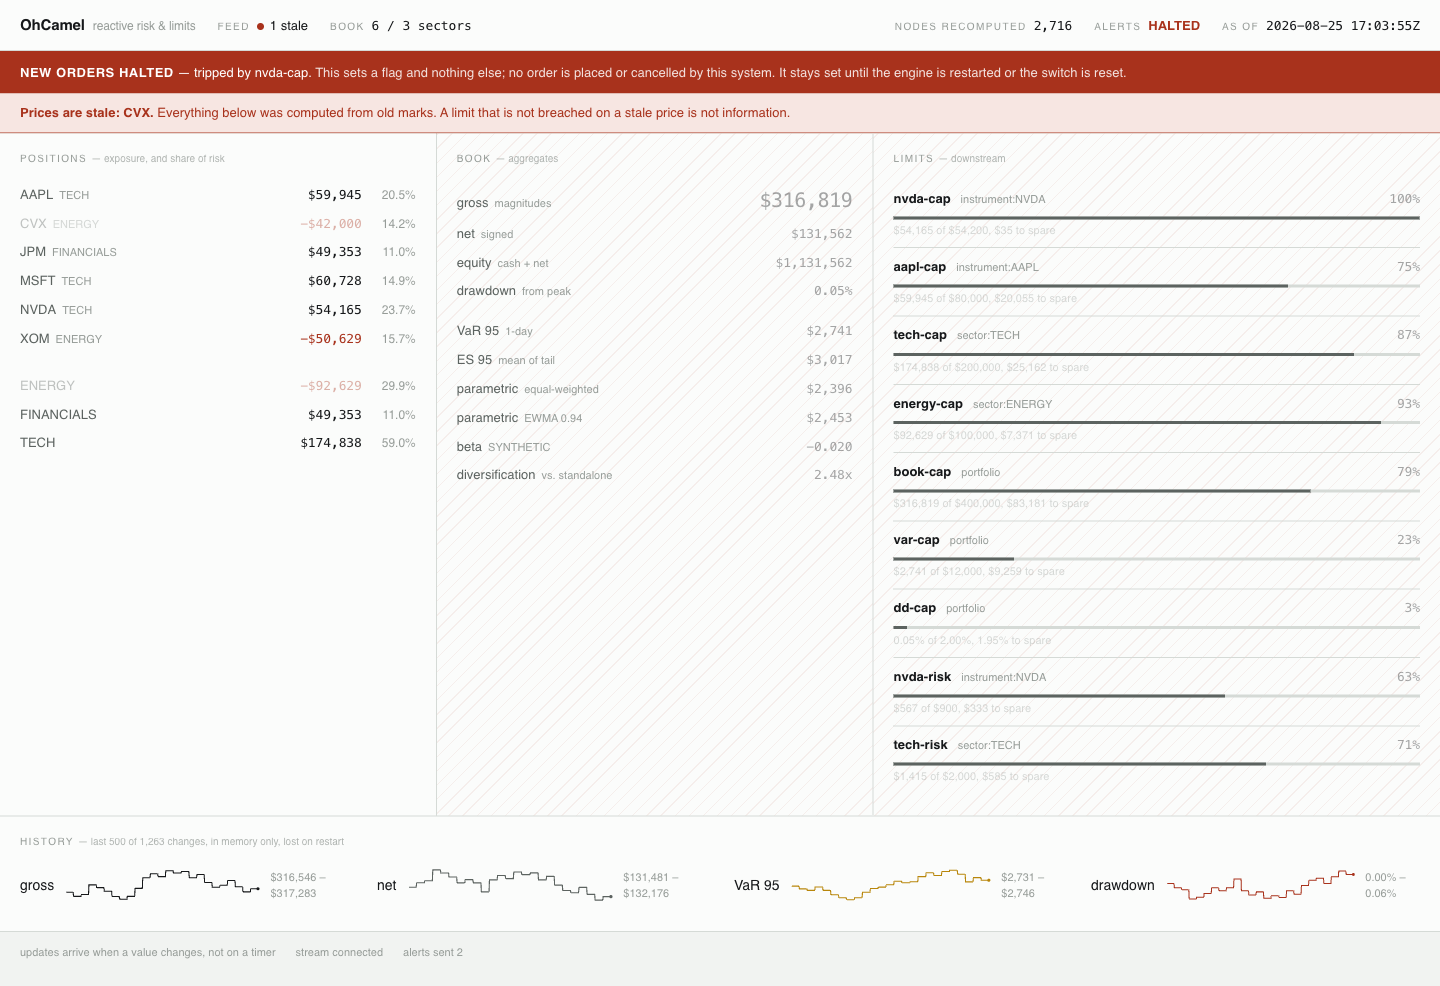
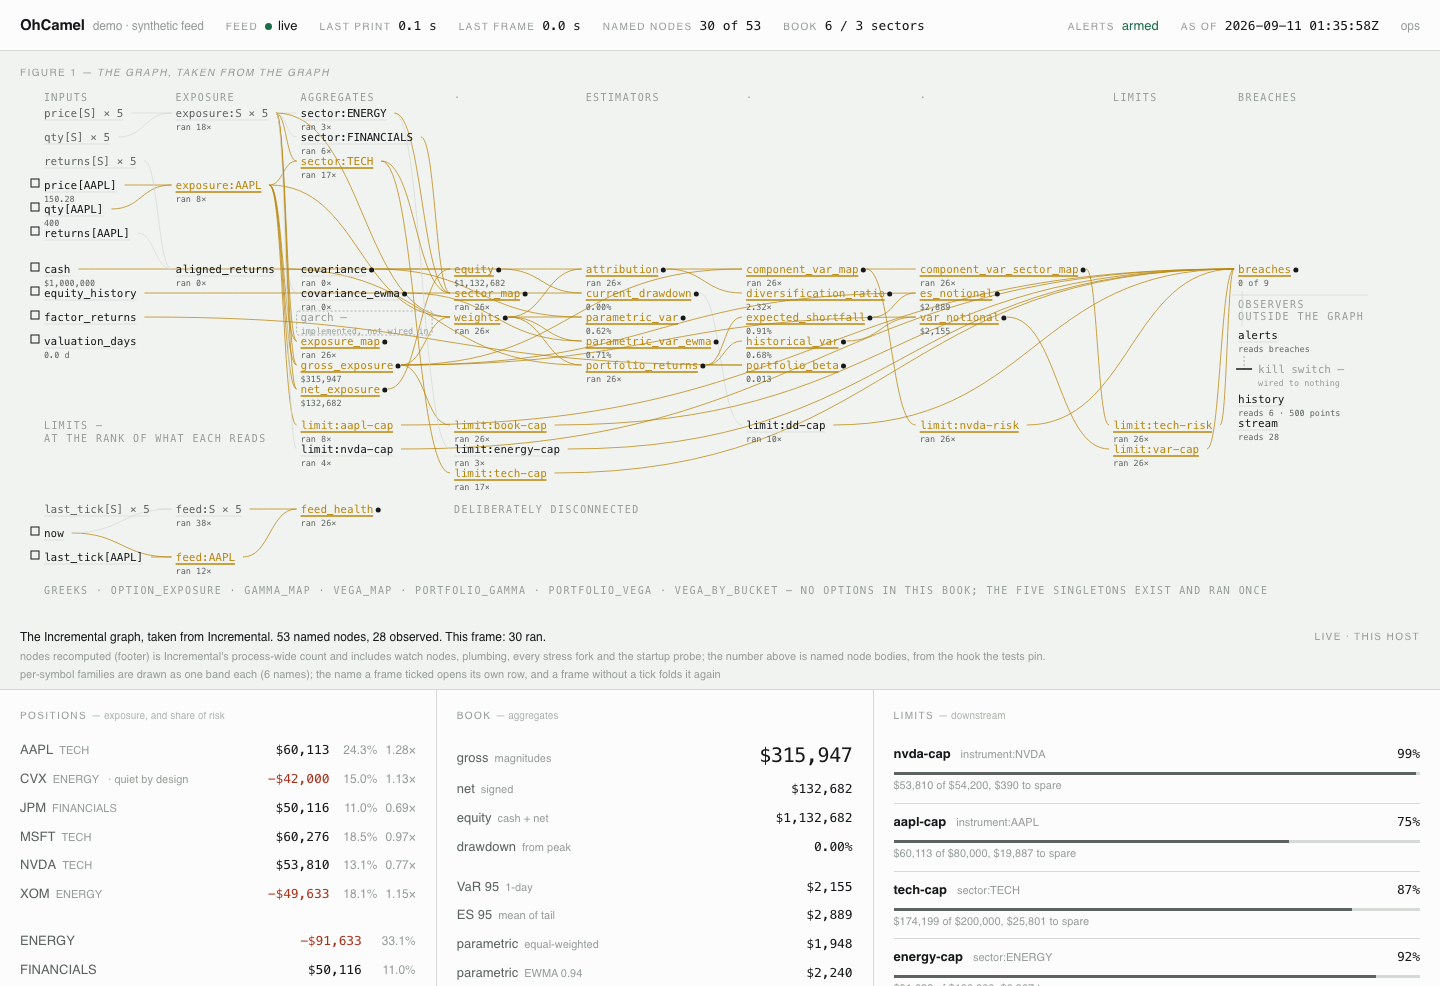
docs: the README, status and spec say what the page is now, and the dated numbers are re-measured, because 272 tests and 78% were true of a codebase that no longer exists
make coverage: 82.2% = 3,713 / 4,516 lines (was 78.2% = 2,765 / 3,534); tests
309. README badge, "What's verified" count, the bimodal per-file table
(server.ml moved to the left column at 88%), and a paragraph under
"Watching it" on the page: the graph from Incremental, and the README's
tables computed by the deployed process and checked against this file.
docs/status.md: the three new routes, the new counts, and how to roll back
(a revert on main, since deploy.sh always builds origin/main). The spec is
marked built, with the finish line's cuts. docs/media/dashboard.png retaken
from the new page: a lit tick with covariance dark.

Claude-Session: https://claude.ai/code/session_01E8qSMoW8J6ATRu5JGUKTLY

diff --git a/README.md b/README.md
@@ -1,7 +1,7 @@
 # OhCamel
 
 [![ci](https://github.com/ajaiupadhyaya/OhCamel/actions/workflows/ci.yml/badge.svg)](https://github.com/ajaiupadhyaya/OhCamel/actions/workflows/ci.yml)
-[![coverage 78%](https://img.shields.io/badge/coverage-78%25-brightgreen)](#coverage-and-what-it-is-not-measuring)
+[![coverage 82%](https://img.shields.io/badge/coverage-82%25-brightgreen)](#coverage-and-what-it-is-not-measuring)
 
 **Live:** [ohcamel.ajaiupadhyaya.com](https://ohcamel.ajaiupadhyaya.com) — the
 synthetic demo, no credentials, always on. [How it is deployed](#watching-it).
@@ -1037,6 +1037,19 @@ host, `live.ohcamel.ajaiupadhyaya.com`, is the same image against Alpaca and
 FRED: real prints, the real ten-year yield, real staleness. It sits behind a
 password, because it holds credentials and shows a real book.
 
+The page at that address is the engine drawn from itself. Figure 1 is the
+dependency graph taken from Incremental's own node table, with each frame's
+recomputation set lit on it: a print in AAPL lights its exposure, the
+aggregates, the estimators and the limits that read them, and visibly leaves
+`covariance` dark until a bar closes. Below the ledger, this README's argument
+runs again under the same headings, except that the tables are *computed by
+the deployed process at startup* — the scaling probe, both backtest batteries,
+the options walk, and the GARCH study on a second domain — and each is checked
+against the numbers quoted in this file, cell by cell, with one printed line
+saying whether they agree. The droplet is Linux on amd64 and this README was
+written on macOS on arm64, so that line is a second platform reproducing every
+table here, or naming the cell where it does not.
+
 The deployment is [`deploy/`](deploy/): a two-stage Dockerfile that fails the
 *build* if the runtime image is missing a shared object, a compose file in which
 only Caddy has a host port, and a smoke suite that runs after every deploy and
@@ -1068,7 +1081,7 @@ deploy user alone, and reach the container as environment, never as a layer.
 
 ## What's verified
 
-`make test` runs 272 tests, all hermetic — no network, no credentials, and nothing
+`make test` runs 309 tests, all hermetic — no network, no credentials, and nothing
 that waits on the wall clock. They cover the numerics against hand-computed
 values, the wire format, the alerting state machine, and the recomputation counts
 that make the graph's shape an assertion rather than a claim.
@@ -1139,7 +1152,7 @@ six properties and four example tests. `QCHECK_TRIALS=5000 make test` runs
 
 ### Coverage, and what it is not measuring
 
-`make coverage` runs the suite under `bisect_ppx` and reports **78%**. The badge
+`make coverage` runs the suite under `bisect_ppx` and reports **82%**. The badge
 above is that number; CI enforces a floor of 60% and prints the full per-file
 table into the run summary, so a drop is visible without anyone remembering to
 look.
@@ -1148,15 +1161,17 @@ The interesting thing about the number is that it is bimodal, and it should be
 read as two numbers rather than one:
 
 ```
- 94%  lib/history_buffer.ml   37%  lib/alerts.ml
- 91%  lib/attribution.ml      40%  lib/config.ml
- 91%  lib/graph.ml            39%  lib/feed/alpaca_ws.ml
- 90%  lib/risk_metrics.ml     47%  lib/feed/fred_client.ml
- 90%  lib/crisis_data.ml      50%  lib/feed/alpaca_rest.ml
- 88%  lib/limits.ml           50%  lib/server.ml
- 87%  lib/vol_estimators.ml   47%  lib/types.ml
- 85%  lib/stress.ml           75%  lib/options.ml
- 71%  lib/var_backtest.ml
+ 95%  lib/history_buffer.ml   52%  lib/alerts.ml
+ 95%  lib/crisis_data.ml      43%  lib/config.ml
+ 92%  lib/graph.ml            40%  lib/feed/alpaca_ws.ml
+ 91%  lib/attribution.ml      51%  lib/feed/fred_client.ml
+ 90%  lib/risk_metrics.ml     50%  lib/feed/alpaca_rest.ml
+ 90%  lib/stress.ml           48%  lib/types.ml
+ 89%  lib/limits.ml           75%  lib/options.ml
+ 89%  lib/reports.ml
+ 88%  lib/server.ml
+ 87%  lib/vol_estimators.ml
+ 85%  lib/var_backtest.ml
 ```
 
 The left column is everything that computes a risk number. The right column is

diff --git a/docs/status.md b/docs/status.md
@@ -169,12 +169,15 @@ would be the first that does.
 
 | Route | |
 |---|---|
-| `/` | The dashboard, a single embedded HTML string with inline SVG and no external assets |
+| `/` | The page: Figure 1 (the graph from Incremental's node table, lit per frame), the ledger, and the README's argument with every reproducible table computed here and checked against the README. One embedded HTML string, inline SVG, no external assets |
 | `/api/snapshot` | The whole book as JSON, including `nodes_recomputed` — the counter that proves the graph is alive |
 | `/api/health` | Feed liveness per symbol; `healthy: false` when anything is stale |
 | `/api/stream` | Server-sent events, emitted only on an actual graph change (parked on an `Ivar`, not a timer), coalesced over 80 ms |
 | `/api/history` | The in-memory trail |
-| `/api/stress` | The scenario suite, run on a fork |
+| `/api/stress` | The scenario suite, run on forks of the live book: structured shocks, before and after, breaches with their text, the counter's cost |
+| `/api/graph` | The topology: named nodes, edges, ranks, the readers outside the graph. Memoised at startup |
+| `/api/reports` | The CLI's reports computed by this process before it listened: scaling probe, synthetic and crisis batteries, options walk. One cached string, about 86 KB |
+| `/api/reports/garch` | The 180-fit GARCH study, run on a second domain after listen: `computing` with a count, then `done` with its rows (about 5 s on an M-series laptop) |
 | `/ops` | The operator's view: what the process is, how long it has been up, what it has recomputed |
 | `/api/ops` | The same as JSON, including the recompute log's distinct and total counts and its hottest nodes |
 
@@ -182,7 +185,7 @@ The page is assembled at build time from `web/` by a rule in `lib/dune`; `lib/da
 
 ## What is verified
 
-- **272 hermetic tests** — no network, no credentials, nothing waiting on a
+- **309 hermetic tests** — no network, no credentials, nothing waiting on a
   clock. Expected values are derived by hand with the derivation beside the
   assertion. Seven are worth knowing by name: Euler residual, hedge (no stray
   `abs`), lookahead, stress-fork isolation, regime-break, delta-hedged, and
@@ -190,7 +193,7 @@ The page is assembled at build time from `web/` by a rule in `lib/dune`; `lib/da
 - **Property tests** (qcheck) generalise the identities over random inputs:
   Euler additivity, component VaR summing to portfolio VaR, a hedge reducing
   variance, VaR monotone in confidence, fork isolation, backtest lookahead.
-- **Coverage 78.2%**, with a 60% floor in CI that exists to make deleting
+- **Coverage 82.2%** (3,713 / 4,516 lines, measured 2026-09-10), with a 60% floor in CI that exists to make deleting
   tests noticeable, not as a target. The number is bimodal by design: the pure
   numeric core is above 90% and the network edges near 40%, because exercising
   them means mocking a broker, which raises the number and establishes nothing.
@@ -346,6 +349,10 @@ ssh root@DROPLET 'bash -s' < deploy/provision.sh
 # the old text; pulling first means the version that runs is the one you meant
 git pull --ff-only && deploy/deploy.sh          # public demo
 git pull --ff-only && deploy/deploy.sh --live   # plus the live host
+
+# roll back: deploy.sh always builds origin/main, so a rollback is a revert on
+# main, pushed, then the redeploy above -- not a checkout on the droplet, which
+# the next deploy's pull would undo
 
 # look
 docker compose -f deploy/docker-compose.yml ps

diff --git a/docs/superpowers/specs/2026-09-02-the-page-design.md b/docs/superpowers/specs/2026-09-02-the-page-design.md
@@ -1,5 +1,7 @@
 # OhCamel — the page
 
+*Status, 2026-09-10: built and merged to `main`, with the cuts listed in `docs/superpowers/plans/2026-09-10-the-page-finish-line.md` — §08 is text rather than an in-browser smoke run, there is no frame-arrival strip, the quoted bench is a table, and the GARCH column fills when the study finishes rather than row by row. Where it is deployed, and from which sha, is `docs/status.md` § Where it runs.*
+
 *Design, 2026-09-02. This succeeds the dashboard described in the essay at the head of `lib/dashboard_html.ml`. That essay is kept — archived verbatim at the head of `web/index.html`, where the successor is — and its three moves are kept with it. What follows is what the page becomes when the graph itself is drawn on it.*
 
 *How it was made: five readers mapped the subsystems a page would draw on; three designers proposed from three angles (an argument, a console, the graph); three judges scored them (the graph won two lenses, the argument won the interviewer's); one synthesis; one completeness critic. Four choices were the owner's and were made on 2026-09-02: one document at `/` plus `/ops`; `/ops` and `/api/ops` public on the demo host with a CORS header on the demo engine's JSON routes; the GARCH study computed by this process on a second domain; an observer on the attribution node. The critic's corrections are folded in where they land and marked* amended.
